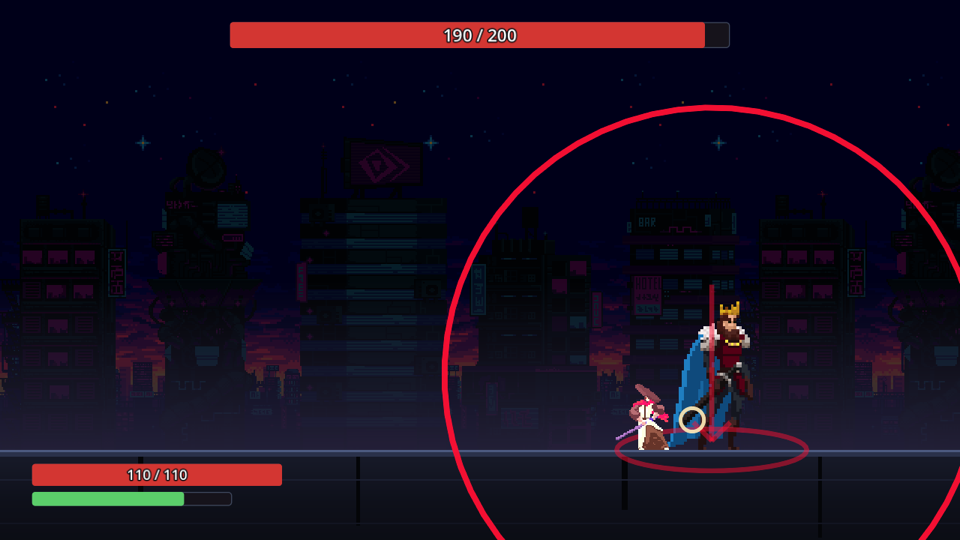
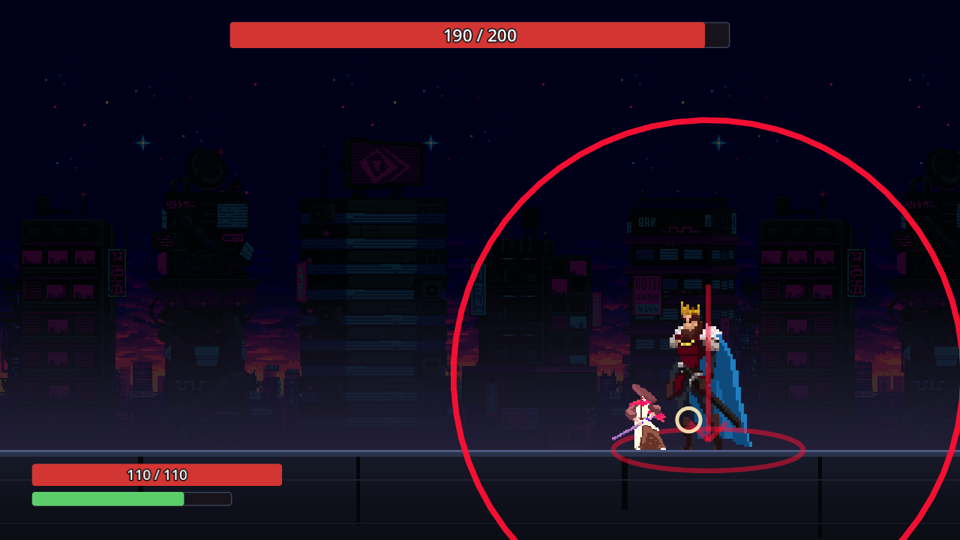
보스 스프라이트를 뒤집고, 양쪽에서 본 그림을 남긴다 (#36)
BossView 가 FlipH 를 한 번도 안 만졌다. Show 의 인자 여섯을 BossFrame 하나로
묶는다 — FighterFrame 과 같은 규약이고, 이슈가 말하는 "BattleViewState 가
실어 나른다" 가 그 자리다.

Battle.CurrentTell 은 파이터와 보스의 x 를 견줘 예고를 뒤집고 있었다. 그대로
두면 잠금이 뷰에서 풀린다 — 파이터가 스윙 도중에 지나가는 순간 몸은 잠겨
그대로인데 칼만 한 프레임에 등 뒤로 튄다. 이제 Boss.Facing 하나를 쓴다.

뒤집어도 자리는 안 어긋난다. Offset 의 x 는 0 이고(AlignToGround 는 y 만
건드린다) 링도 x=0 이라, 좌우가 비대칭인 것은 예고 표지 하나뿐이다.

ShotRunner 가 세 장을 더 찍는다. 앞 시퀀스는 파이터가 맞아 죽는 것으로 끝나므로
**새 판에서** 찍는다 — 앞에 끼워 넣으면 남은 체력을 몇 초어치 더 써서 뒤의
장면들이 통째로 결과 화면으로 찍힌다. 잠금 장면은 대시로 지나간다: 걸음으로는
선딜 하나 안에 보스 몸(반폭 85)을 확실히 못 벗어나 겹친 채 찍히고, 판정까지
0.6초 넘게 남은 선딜만 고른다 — 그냥 "선딜인가" 만 보면 끝자락에 걸려 잠긴 몸
대신 충격파가 찍혔다(실제로 그렇게 찍혔다).

diff --git a/overfit/battle/debug/ShotRunner.cs b/overfit/battle/debug/ShotRunner.cs
@@ -164,8 +164,72 @@ public partial class ShotRunner : Node
         await Frames(2);
         await Screenshot.CaptureAsync(this, "battle-8-result");
 
+        await Facing();
+
         Log.Marker("shots", "shots=done");
         GetTree().Quit();
+    }
+
+    /// <summary>
+    /// 보스의 방향 전환 세 장 (이슈 #36). <b>새 판에서 찍는다</b> — 앞 시퀀스는 파이터가 맞아 죽는 것으로
+    /// 끝나므로 이어 붙일 수 없고, 앞에 끼워 넣으면 남은 체력을 몇 초어치 더 써서 뒤의 장면들이
+    /// 통째로 결과 화면으로 찍힌다(이 파일의 다른 주석들이 이미 밟은 실패다).
+    ///
+    /// <para>
+    /// 증명해야 하는 것이 둘이다. ① <b>양쪽</b> — 파이터가 왼쪽에 있을 때와 오른쪽에 있을 때
+    /// 보스가 각각 그쪽을 보는가(#27 로 몸 충돌이 없어져 반대편으로 돌아갈 수 있게 됐고,
+    /// 그때부터 보스는 등 뒤를 향해 칼을 휘두르는 그림이었다). ② <b>잠금</b> — 스윙 도중에
+    /// 지나가도 <b>안</b> 돌아보는가. 둘째 장이 없으면 첫째 장은 "따라 도는 것" 만 말하고,
+    /// 그것만 맞추려다 예고를 거짓말로 만드는 것이 이 기능의 유일한 함정이다.
+    /// </para>
+    /// </summary>
+    private async Task Facing()
+    {
+        Game.Instance.GoTo(Game.Scene.Battle);
+        await Frames(4);
+        _battle = GetTree().CurrentScene as Overfit.Battle.Battle;
+
+        // 파이터는 아레나의 25% · 보스는 75% 에 선다 — 보스는 처음부터 왼쪽을 본다.
+        await Wait(0.8);
+        await FacingShot("battle-9-face-left");
+
+        // 오른쪽으로 달려 보스를 지나간다.
+        Hold("move_right", true);
+        await Wait(2.6);
+        Hold("move_right", false);
+        await FacingShot("battle-9b-face-right");
+
+        // ── 잠금: 선딜 도중에 반대편으로 지나간다 ─────────────────────────
+        // 방금 자리(보스의 오른쪽)에서 기다렸다가 **선딜 도중에** 왼쪽으로 빠져나간다.
+        // 보스는 그 선딜이 끝날 때까지 오른쪽을 본 채여야 한다 — 예고(칼)도 오른쪽에 그대로 있다.
+        //
+        // **판정까지 0.6초 넘게 남은 선딜만 고른다.** 그냥 "선딜인가" 만 보면 끝자락에 걸리고,
+        // 그때 지나가면 잠긴 몸 대신 판정 충격파가 찍힌다 — 실제로 그렇게 찍혔다.
+        //
+        // **걸음이 아니라 대시로 넘는다.** 보스 몸이 반폭 85 라 걸음(420px/s)으로는 선딜 하나 안에
+        // 몸 밖으로 확실히 못 나간다 — 겹친 채 찍히면 어느 쪽에 섰는지가 그림에서 안 읽힌다.
+        // 대시는 0.18초에 396px 이라 한 번에 넘기고, 남은 프레임은 이어지는 걸음이 더 벌린다.
+        await Until(
+            () => _battle is { BossWindingUp: true } && _battle.BossNextActiveIn >= 0.6,
+            _tellTimeout);
+        Hold("move_left", true);
+        await Frames(2);   // 왼쪽을 보게 세운다 — 대시는 **바라보는 쪽으로만** 간다
+        Tap("dash");
+        await Frames(26);
+        Hold("move_left", false);
+        await Screenshot.CaptureAsync(this, "battle-9c-facing-locked");
+    }
+
+    /// <summary>
+    /// 방향이 <b>가라앉은 뒤</b> 한 장. 패턴이 도는 동안에는 방향이 잠겨 있으므로
+    /// (<c>Boss.Face</c>) 패턴 중에 찍으면 "아직 안 돌았다" 가 찍힌다 — 그건 잠금이 일하는
+    /// 그림이지 이 두 장이 증명할 것이 아니다(그건 <c>battle-9c</c> 가 맡는다).
+    /// </summary>
+    private async Task FacingShot(string name)
+    {
+        await Until(() => _battle is { BossPattern: null }, _pollTimeout);
+        await Frames(2);
+        await Screenshot.CaptureAsync(this, name);
     }
 
     /// <summary>

diff --git a/overfit/battle/view/BossView.cs b/overfit/battle/view/BossView.cs
@@ -90,25 +90,28 @@ public partial class BossView : Node2D
         Animate("idle");
     }
 
-    /// <summary>한 프레임.</summary>
-    /// <param name="x">보스의 규칙 좌표 x.</param>
-    /// <param name="phase">패턴의 어디쯤인가 — 선딜 · 후딜 · 쉬는 중.</param>
-    /// <param name="nextActiveIn">다음 판정까지 남은 시간(초). 더 올 판정이 없으면 null.</param>
-    /// <param name="parryable">지금 도는 패턴을 받아칠 수 있나. 못 받아치면 예고가 크림슨이다.
-    /// <b>규칙이 아니라 태그를 그대로 그린다</b> — 뷰가 판정을 다시 계산하면 두 곳이 갈린다.</param>
-    /// <param name="anim">선딜에 재생할 모션 이름. 패턴마다 다르다(<c>patterns.json</c> 의 <c>tell.anim</c>) —
-    /// 팩의 attack · attack2 · attack3 이 백장의 세 패턴에 하나씩 붙는다. 패턴이 안 돌면 null.</param>
-    /// <param name="tell">이 패턴의 예고 표지. 패턴이 안 돌거나 후딜이면 null.</param>
-    public void Show(double x, BossPhase phase, double? nextActiveIn, bool parryable, string? anim, BossTell? tell)
+    /// <summary>
+    /// 한 프레임. <paramref name="frame"/> 의 모든 값은 <b>규칙이 정한 것</b>이고 여기서 다시 재지 않는다.
+    /// </summary>
+    public void Show(BossFrame frame)
     {
         double dt = GetProcessDeltaTime();
-        Position = new Vector2((float)x, 0);
+        Position = new Vector2((float)frame.X, 0);
+
+        // 스프라이트 원본은 오른쪽을 본다 — 팩의 규약이고 FighterView 도 같다.
+        // **뒤집어도 자리가 안 어긋난다**: Offset 의 x 는 0 이고(AlignToGround 는 y 만 건드린다)
+        // 링도 x=0 에 선다. 좌우가 비대칭인 것은 예고 표지 하나뿐이고, 그건 Battle 이
+        // 이 Facing 으로 이미 뒤집어 넘긴다.
+        _sprite.FlipH = frame.Facing < 0;
+
+        BossPhase phase = frame.Phase;
+        bool parryable = frame.Parryable;
 
         _flashLeft = System.Math.Max(0, _flashLeft - dt);
         _hitPoseLeft = System.Math.Max(0, _hitPoseLeft - dt);
         HoldLastFrameWhenDead();
 
-        float ripeness = Ripeness(phase, nextActiveIn);
+        float ripeness = Ripeness(phase, frame.NextActiveIn);
         if (ripeness > 0)
         {
             // 판정이 가까울수록 링이 **조여 든다.** 퍼지는 충격파와 방향이 반대라 둘을 헷갈릴 수 없다.
@@ -120,13 +123,13 @@ public partial class BossView : Node2D
         // 표지는 선딜 **내내** 보인다. 무르익음에만 묶으면 tell_lead_seconds 밖의 선딜이
         // 통째로 무표지가 되는데, 백장의 올려베기가 정확히 그 구간이 가장 긴 패턴이다 —
         // "크게 예고한다" 가 설계인 패턴이 예고를 제일 늦게 받는 것은 뒤집힌 것이다.
-        if (phase == BossPhase.Windup && tell is { } mark)
+        if (phase == BossPhase.Windup && frame.Tell is { } mark)
         {
             Color tint = parryable ? _tellRingColor : _unparryableRingColor;
             _tell.Show(mark, new Color(tint.R, tint.G, tint.B, 0.45f + (0.55f * ripeness)));
         }
 
-        Animate(AnimationFor(phase, anim));
+        Animate(AnimationFor(phase, frame.Anim));
         _sprite.Modulate = Tint(phase, ripeness, parryable);
     }
 

diff --git a/overfit/battle/Battle.cs b/overfit/battle/Battle.cs
@@ -101,6 +101,14 @@ public partial class Battle : Node2D
     /// </summary>
     public string? BossPattern => _broken || _over ? null : _sim.Boss.CurrentPattern;
 
+    /// <summary>
+    /// 다음 판정까지 남은 시간(초). 더 올 판정이 없으면 0. 위와 같이 디버그 전용 읽기다 —
+    /// 선딜의 <b>어디쯤인지</b>를 보고 셔터를 눌러야 하는 장면이 있다(이슈 #36 의 방향 잠금:
+    /// 선딜이 넉넉히 남았을 때 지나가야 "안 돌아본다" 가 증명되고, 끝자락에 지나가면
+    /// 잠금이 아니라 충격파가 찍힌다 — 실제로 그렇게 찍혔다).
+    /// </summary>
+    public double BossNextActiveIn => _broken || _over ? 0 : _sim.NextActiveIn ?? 0;
+
     public override void _Ready()
     {
         _fighterView = GetNode<FighterView>("%FighterView");
@@ -454,7 +462,14 @@ public partial class Battle : Node2D
                 : _sim.Fighter.SinceParryPress / _sim.Fighter.PreciseParryWindow,
             _sim.Fighter.Locked));
 
-        _bossView.Show(_sim.Boss.X, Phase(), _sim.NextActiveIn, CurrentParryable(), CurrentAnim(), CurrentTell());
+        _bossView.Show(new BossFrame(
+            _sim.Boss.X,
+            _sim.Boss.Facing,
+            Phase(),
+            _sim.NextActiveIn,
+            CurrentParryable(),
+            CurrentAnim(),
+            CurrentTell()));
 
         _hud.Show(_sim.Fighter.Health, _fighterConfig.MaxHealth, _sim.Fighter.Stamina, _fighterConfig.MaxStamina,
             _sim.Boss.Health, _bossConfig.MaxHealth);
@@ -495,9 +510,14 @@ public partial class Battle : Node2D
     ///
     /// <para>
     /// 데이터의 <c>x</c> 는 "보스의 앞(+) 인가 뒤(-) 인가" 다. 화면의 왼/오른쪽으로 옮기려면
-    /// 보스가 <b>어디를 보는지</b>를 알아야 하고, 그것을 아는 것은 규칙과 뷰를 둘 다 아는 여기뿐이다.
-    /// 보스는 늘 파이터를 본다 — 스프라이트를 안 뒤집는 지금도 표지는 뒤집어야 한다.
-    /// 안 그러면 파이터가 보스 왼쪽에 설 때 "앞에 끌리는 칼" 이 등 뒤에 그려진다.
+    /// 보스가 <b>어디를 보는지</b>를 알아야 하고, 그 답은 <see cref="Boss.Facing"/> 하나다.
+    /// 안 뒤집으면 파이터가 보스 왼쪽에 설 때 "앞에 끌리는 칼" 이 등 뒤에 그려진다.
+    /// </para>
+    ///
+    /// <para>
+    /// ⚠ <b>두 x 를 견줘 여기서 다시 계산하면 안 된다</b>(이슈 #36 전에는 그랬다). 그러면 파이터가
+    /// 스윙 도중에 보스를 지나가는 순간 <b>표지가 한 프레임에 반대쪽으로 튄다</b> — 몸은 잠겨 그대로인데
+    /// 칼만 등 뒤로 간다. 방향을 아는 곳은 규칙 한 곳이어야 한다.
     /// </para>
     /// </summary>
     private BossTell? CurrentTell()
@@ -507,8 +527,7 @@ public partial class Battle : Node2D
             return null;
         }
 
-        double facing = _sim.Fighter.X < _sim.Boss.X ? -1.0 : 1.0;
-        return new BossTell(def.Tell.Id, def.Tell.X * facing, def.Tell.Y, def.Tell.Length);
+        return new BossTell(def.Tell.Id, def.Tell.X * _sim.Boss.Facing, def.Tell.Y, def.Tell.Length);
     }
 
     /// <summary>지금 도는 패턴의 정의. 패턴이 안 돌거나 표에 없으면 null.</summary>

diff --git a/overfit/battle/view/BattleViewState.cs b/overfit/battle/view/BattleViewState.cs
@@ -78,3 +78,28 @@ public readonly record struct BossTell(
     double X,
     double Y,
     double Length);
+
+/// <summary>
+/// 한 렌더 프레임에 보스를 그리는 데 필요한 전부. <see cref="FighterFrame"/> 과 같은 규약이다 —
+/// <b>순간(판정이 섰다 · 맞았다 · 죽었다)은 여기 없다.</b> 그건 상태가 아니라 사건이라
+/// <c>BossView</c> 의 메서드 호출로 들어온다.
+/// </summary>
+/// <param name="X">보스의 규칙 좌표 x.</param>
+/// <param name="Facing">-1 왼쪽 · +1 오른쪽. <b>규칙이 정한 값을 그대로 싣는다</b> —
+/// 뷰가 보스와 파이터의 x 를 보고 스스로 정하면 "같은 시드면 같은 결과" 가 그림까지 덮지 못하고,
+/// 무엇보다 <b>패턴 중 잠금</b>(<c>Boss.Face</c>)이 뷰에서 풀려 예고가 스윙 도중에 뒤집힌다.</param>
+/// <param name="Phase">패턴의 어디쯤인가 — 선딜 · 후딜 · 쉬는 중.</param>
+/// <param name="NextActiveIn">다음 판정까지 남은 시간(초). 더 올 판정이 없으면 null.</param>
+/// <param name="Parryable">지금 도는 패턴을 받아칠 수 있나. 못 받아치면 예고가 크림슨이다.
+/// <b>규칙이 아니라 태그를 그대로 그린다</b> — 뷰가 판정을 다시 계산하면 두 곳이 갈린다.</param>
+/// <param name="Anim">선딜에 재생할 모션 이름. 패턴마다 다르다(<c>patterns.json</c> 의 <c>tell.anim</c>).
+/// 패턴이 안 돌면 null.</param>
+/// <param name="Tell">이 패턴의 예고 표지. 패턴이 안 돌거나 후딜이면 null.</param>
+public readonly record struct BossFrame(
+    double X,
+    int Facing,
+    BossPhase Phase,
+    double? NextActiveIn,
+    bool Parryable,
+    string? Anim,
+    BossTell? Tell);

diff --git a/README.md b/README.md
@@ -57,6 +57,16 @@
 밀어내지 않는 이유는 갇히지 않기 위해서다 — 그 대신 "거리"는 벽이 아니라
 **패턴의 안전 구역**이 만든다(`점프 강타` 의 발밑 주머니).
 
+몸이 통과하니 **반대편으로 돌아갈 수 있다.** 그래서 보스는 플레이어를 바라보고 돌아선다 —
+다만 **휘두르는 중에는 안 돈다.**
+
+| <img src="docs/shots/battle-9-face-left.png" width="290"> | <img src="docs/shots/battle-9b-face-right.png" width="290"> | <img src="docs/shots/battle-9c-facing-locked.png" width="290"> |
+|---|---|---|
+| 왼쪽에 서면 왼쪽을 본다 | 지나가서 오른쪽에 서면 돌아선다 | **선딜 중에는 안 돈다** — 뒤로 빠져나가도 칼은 원래 방향 그대로다 |
+
+돌아서는 것보다 **안 돌아서는 것**이 중요하다. 스윙 도중에 따라 돌면 예고가 거짓말이 되고,
+예고는 이 게임에서 패리를 가르치는 유일한 수단이다.
+
 ### 조작
 
 | | 키 | |
